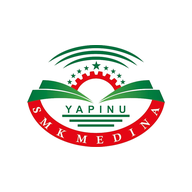
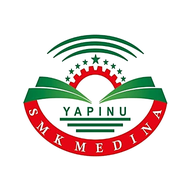
Segarkan ikon saja, ikon Medina lebih tajam

Changed region(s): [[0.125, 0.1562, 0.875, 0.8438]]

diff --git a/service-worker.js b/service-worker.js
@@ -1,5 +1,5 @@
 /* service-worker.js: cache cangkang aplikasi agar bisa dibuka offline. Data Appwrite tidak pernah di-cache. */
-var CACHE='tbsm-v105';
+var CACHE='tbsm-v106';
 var LOCAL=['./','index.html','manifest.json','manifest-df.json','manifest-medina.json','css/app.css','css/banksoal.css','assets/logo.jpg','assets/icon-192.png','assets/icon-512.png','assets/logo-df.png','assets/logo-medina.png','assets/icon-df-192.png','assets/icon-df-512.png','assets/icon-medina-192.png','assets/icon-medina-512.png','js/config.js','js/logo.js','js/sekolah.js','js/data.js','js/util.js','js/dialog.js','js/core.js','js/export.js','js/views.js','js/ukk-aturan.js','js/lkpd-modul.js','js/lkpd.js','js/ui.js','js/siswa-ui.js','js/back.js','js/lkpd-analisis.js','js/lkpd-integritas.js','js/lkpd-editor.js','js/lkpd-io.js','js/lkpd-staff.js','js/lkpd-rekap-rapi.js','js/menu-dasbor.js','js/actions.js','js/cetak-uji.js','js/ukk-kelola.js','js/ukk-xls.js','js/ukk-foto.js','js/ukk-pdf.js','js/nilai-analisis.js','js/uji-waktu.js','js/hasil-izin.js','js/nilai.js','js/pwa.js','js/lkpd-kelas.js','js/lkpd-timer.js','js/nav.js','js/observasi.js','js/observasi-ukk.js','js/akun-sandi.js','js/lkpd-cetak.js','js/lkpd-mode.js','js/lkpd-rekap-mode.js','js/kompetensi.js','js/cek-sinkron.js','js/lkpd-drive.js','js/soal-tka.js','js/soal-lkpd/x1.js','js/soal-lkpd/x2.js','js/soal-lkpd/x3.js','js/soal-lkpd/x4.js','js/soal-lkpd/x5.js','js/soal-lkpd/x6.js','js/soal-lkpd/xi1.js','js/soal-lkpd/xi2.js','js/soal-lkpd/xi3.js','js/soal-lkpd/xi4.js','js/soal-lkpd/xi5.js','js/soal-lkpd/xi6.js','js/soal-lkpd/xi7.js','js/soal-lkpd/xi8.js','js/soal-lkpd/xii1.js','js/soal-lkpd/xii2.js','js/soal-lkpd/xii3.js','js/soal-lkpd/xii4.js','js/soal-lkpd/xii5.js','js/soal-lkpd/xii6.js','js/soal-lkpd/xii7.js','js/lkpd-soal.js','js/banksoal.js','js/banksoal-io.js','js/jam.js','js/ujian-server.js','js/sinkron-cepat.js','templates/Template_Impor_Bank_Soal.xlsx','templates/Template_Impor_LKPD.xlsx'];
 var CDN=['https://cdn.jsdelivr.net/npm/appwrite@16.0.2/dist/iife/sdk.js','https://cdnjs.cloudflare.com/ajax/libs/xlsx/0.18.5/xlsx.full.min.js','https://cdnjs.cloudflare.com/ajax/libs/jspdf/2.5.1/jspdf.umd.min.js','https://cdnjs.cloudflare.com/ajax/libs/jspdf-autotable/3.8.2/jspdf.plugin.autotable.min.js','https://fonts.googleapis.com/css2?family=Plus+Jakarta+Sans:wght@400;500;600;700;800&display=swap'];
 var CDNHOST=['cdn.jsdelivr.net','cdnjs.cloudflare.com','fonts.googleapis.com','fonts.gstatic.com'];

diff --git a/js/ui.js b/js/ui.js
@@ -24,7 +24,7 @@ function render(){
  var logoBtn='<button type="button" class="logobtn" data-act="drawer" aria-label="Buka menu" aria-controls="drawer" aria-expanded="false"><img class="logo" src="'+LOGO+'" alt="Logo '+schNama()+'"></button>';
  var rolePill=multi?'<button type="button" class="pill glass role" data-act="switchrole" aria-label="Peran aktif '+PERAN[act]+'. Ketuk untuk berganti peran">'+PERAN[act]+svg(ICO.swap,14)+'</button>':'<span class="pill glass">'+PERAN[act]+'</span>';
  var kls=act==='siswa'&&u.kelas?'<span class="pill glass">Kelas '+esc(u.kelas)+'</span>':'';
- var who='<div class="hi"><p class="hello"><span>Halo,</span> <b>'+esc(String(u.nama).trim().split(/\s+/)[0])+'</b></p><p class="mail">'+esc(u.email||u.username||'')+'</p><div class="hmeta">'+rolePill+schPill()+kls+'<button type="button" class="pill glass role" data-act="refresh" aria-label="Segarkan data">'+svg(ICO.segarkan,14)+'Segarkan</button></div>'+(home?'':'<div class="netslot" id="netslot" hidden></div>')+'</div>';
+ var who='<div class="hi"><p class="hello"><span>Halo,</span> <b>'+esc(String(u.nama).trim().split(/\s+/)[0])+'</b></p><p class="mail">'+esc(u.email||u.username||'')+'</p><div class="hmeta">'+rolePill+schPill()+kls+'<button type="button" class="pill glass role iconbtn" data-act="refresh" aria-label="Segarkan data" title="Segarkan data">'+svg(ICO.segarkan,17)+'</button></div>'+(home?'':'<div class="netslot" id="netslot" hidden></div>')+'</div>';
  var moto='<svg class="moto" viewBox="0 0 170 96" fill="none" stroke="currentColor" stroke-width="3" stroke-linecap="round" stroke-linejoin="round" aria-hidden="true"><circle cx="32" cy="66" r="19"/><circle cx="138" cy="66" r="19"/><circle cx="32" cy="66" r="5"/><circle cx="138" cy="66" r="5"/><path d="M32 66 56 42h40l14 24M96 42l12-22h16M108 20 138 66M60 42l-6-8h24M62 66h32l8-14"/></svg>';
  var head=home?
   '<header class="top big"><svg class="rings" viewBox="0 0 220 220" fill="none" stroke="currentColor" aria-hidden="true"><circle cx="150" cy="70" r="30"/><circle cx="150" cy="70" r="60"/><circle cx="150" cy="70" r="90"/></svg>'+moto+

diff --git a/index.html b/index.html
@@ -16,7 +16,7 @@
 <meta name="apple-mobile-web-app-capable" content="yes">
 <link rel="preconnect" href="https://fonts.googleapis.com"><link rel="preconnect" href="https://fonts.gstatic.com" crossorigin>
 <link rel="stylesheet" href="https://fonts.googleapis.com/css2?family=Plus+Jakarta+Sans:wght@400;500;600;700;800&display=swap">
-<link rel="stylesheet" href="css/app.css?v=100">
+<link rel="stylesheet" href="css/app.css?v=101">
 <link rel="stylesheet" href="css/banksoal.css?v=99">
 </head>
 <body>
@@ -38,7 +38,7 @@
 <script src="js/ukk-aturan.js?v=1"></script>
 <script src="js/lkpd-modul.js?v=99"></script>
 <script src="js/lkpd.js?v=99"></script>
-<script src="js/ui.js?v=101"></script>
+<script src="js/ui.js?v=102"></script>
 <script src="js/nilai.js?v=99"></script>
 <script src="js/pwa.js?v=99"></script>
 <script src="js/lkpd-kelas.js?v=99"></script>

diff --git a/css/app.css b/css/app.css
@@ -189,6 +189,7 @@ footer.school::before{content:'';position:absolute;left:18px;top:-1px;width:44px
 .pill.glass.role{background:rgba(255,255,255,.28);box-shadow:inset 0 0 0 1px rgba(255,255,255,.55);color:#fff}
 .pill.role svg{opacity:.9}
 .pill.role:active{transform:scale(.95)}
+.pill.role.iconbtn{justify-content:center;width:30px;min-width:30px;padding:0;gap:0}.pill.role.iconbtn svg{opacity:1}
 .sprofile .pill.role{box-shadow:inset 0 0 0 1px color-mix(in srgb,var(--accent) 35%,transparent)}
 .moto{position:absolute;right:14px;bottom:10px;width:132px;color:#fff;opacity:.13;pointer-events:none}
 .top.big{padding-bottom:30px}
